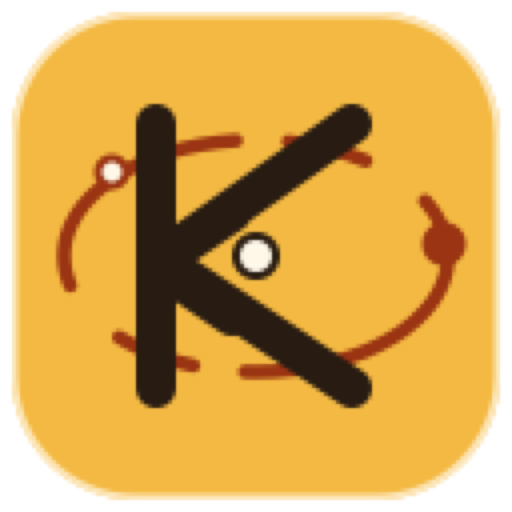
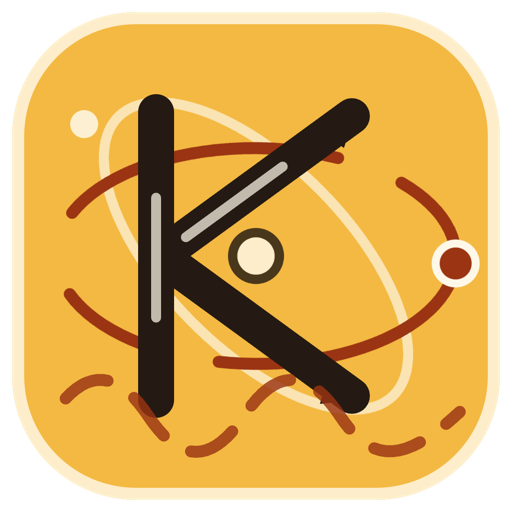
Unify Ask KIT and animate the KINETIQ identity

diff --git a/js/askUI.js b/js/askUI.js
@@ -11,6 +11,9 @@
 import { escapeHTML } from './utils.js';
 import { saveAnswerForReview, isAnswerSaved } from './mistakeBank.js';
 import { learningStorage as localStorage } from './services/learningStorage.js';
+import { aiService } from './services/aiService.js';
+import { contextManager } from './services/contextManager.js';
+import { markdownService } from './services/markdownService.js';
 
 const HISTORY_KEY = 'kinetiq_ask_history_v1';
 
@@ -65,8 +68,17 @@ export function askPage(query = '') {
   return `<section class="page ask-page">
     <div class="ask-hero">
       <div><p class="eyebrow">ASK KINETIQ</p><h1>Ask a question.</h1>
-      <p class="page-lead">Answers come from KINETIQ's own lessons, formulae, worked examples and cases. Every passage carries the lesson it came from, so you can always check it. No account and no API key needed.</p></div>
+      <p class="page-lead">Start with a source-cited answer from KINETIQ's lessons, formulae, worked examples and cases. When an AI provider is available, KIT can also turn those sources into a tailored explanation.</p></div>
       ${statusOrb()}
+    </div>
+
+    <div class="ask-engine" role="group" aria-label="Answer style">
+      <button type="button" class="is-active" data-ask-engine="sources" aria-pressed="true">
+        <b>Source answer</b><span>Fast, cited, no API key</span>
+      </button>
+      <button type="button" data-ask-engine="ai" aria-pressed="false" disabled>
+        <b>AI tutor</b><span data-ai-engine-label>Checking availability…</span>
+      </button>
     </div>
 
     <form class="ask-form" data-ask-form>
@@ -134,6 +146,18 @@ function answerHTML(data, question) {
   </article>`;
 }
 
+function aiAnswerHTML(content, sources = [], provider = '', complete = false, question = '') {
+  const saved = complete && isAnswerSaved(question);
+  return `<article class="ask-answer ask-answer--ai">
+    <header class="ask-answer__head">
+      <div><p class="eyebrow">AI TUTOR${provider ? ` · ${escapeHTML(provider)}` : ''}</p><h2>${complete ? 'KIT’s explanation' : 'KIT is writing…'}</h2></div>
+      ${complete ? `<button type="button" class="outline ask-save" data-ask-save ${saved ? 'disabled' : ''}>${saved ? 'Saved for review ✓' : 'Save for review'}</button>` : ''}
+    </header>
+    <div class="ask-ai-copy">${content ? markdownService.render(content) : '<p class="muted">Connecting the question to KINETIQ’s course sources…</p>'}</div>
+    ${sources.length ? `<footer class="ask-sources"><span>Sources used</span>${sources.map(source => `<a href="${escapeHTML(source.href || '/library')}" data-route>${escapeHTML(source.title || source.type || 'KINETIQ source')}</a>`).join('')}</footer>` : ''}
+  </article>`;
+}
+
 function historyHTML() {
   const rows = readHistory();
   if (!rows.length) return '';
@@ -162,6 +186,7 @@ export function bindAsk() {
   let inFlight = null;
   let lastAnswer = null;
   let lastQuestion = '';
+  let engine = 'sources';
 
   const renderHistory = () => { if (historyBox) historyBox.innerHTML = historyHTML(); };
   const setStatus = (state, heading, detail) => {
@@ -171,13 +196,7 @@ export function bindAsk() {
     status.querySelector('[data-kit-status-label]').textContent = detail;
   };
 
-  async function ask(question) {
-    const trimmed = String(question || '').trim();
-    if (!trimmed) return;
-
-    const url = `/ask?q=${encodeURIComponent(trimmed)}`;
-    if (location.pathname + location.search !== url) history.replaceState({}, '', url);
-
+  async function sourceAnswer(trimmed, fallback = '') {
     result.innerHTML = '<p class="muted ask-loading">Searching KINETIQ…</p>';
     setStatus('thinking', 'KIT is searching', 'Lessons, formulae, cases and worked examples');
     inFlight?.abort?.();
@@ -190,7 +209,7 @@ export function bindAsk() {
       if (!response.ok) throw new Error(data?.error || 'That search could not be completed.');
       lastAnswer = data;
       lastQuestion = trimmed;
-      result.innerHTML = answerHTML(data, trimmed);
+      result.innerHTML = `${fallback ? `<p class="ai-fallback-note" role="status">${escapeHTML(fallback)} The source-cited answer is shown instead.</p>` : ''}${answerHTML(data, trimmed)}`;
       setStatus(data.answered ? 'found' : 'ready', data.answered ? 'Source found' : 'Try another question', data.answered ? 'Answer assembled with its KINETIQ source' : 'Use a topic name or a more specific relationship');
       // Only a question that actually produced an answer is worth remembering.
       if (data.answered) { pushHistory(trimmed); renderHistory(); }
@@ -205,13 +224,81 @@ export function bindAsk() {
     }
   }
 
+  async function aiAnswer(trimmed) {
+    inFlight?.abort?.();
+    let content = '';
+    let sources = [];
+    let provider = '';
+    let streamError = '';
+    setStatus('thinking', 'KIT is explaining', 'Connecting your question to KINETIQ sources');
+    result.innerHTML = aiAnswerHTML('', [], '', false, trimmed);
+
+    const stream = aiService.stream(trimmed, {
+      mode: 'Physics Teacher',
+      context: contextManager.fromRoute(),
+      onDelta: delta => {
+        content += delta;
+        result.innerHTML = aiAnswerHTML(content, sources, provider, false, trimmed);
+      },
+      onSources: rows => {
+        sources = rows;
+        result.innerHTML = aiAnswerHTML(content, sources, provider, false, trimmed);
+      },
+      onMeta: meta => {
+        if (meta.providerLabel) provider = meta.providerLabel;
+        result.innerHTML = aiAnswerHTML(content, sources, provider, false, trimmed);
+      },
+      onError: message => { streamError = message; },
+    });
+    inFlight = stream;
+    await stream.done;
+    inFlight = null;
+
+    if (streamError || !content.trim()) {
+      await sourceAnswer(trimmed, streamError || 'The AI provider returned no text.');
+      return;
+    }
+
+    lastQuestion = trimmed;
+    lastAnswer = {
+      answered: true,
+      headline: 'KIT AI explanation',
+      sections: [{ body: content }],
+      sources,
+    };
+    result.innerHTML = aiAnswerHTML(content, sources, provider, true, trimmed);
+    setStatus('found', 'Explanation ready', `${provider || 'AI tutor'} used KINETIQ course sources`);
+    pushHistory(trimmed);
+    renderHistory();
+  }
+
+  async function ask(question) {
+    const trimmed = String(question || '').trim();
+    if (!trimmed) return;
+    const url = `/ask?q=${encodeURIComponent(trimmed)}`;
+    if (location.pathname + location.search !== url) history.replaceState({}, '', url);
+    if (engine === 'ai') await aiAnswer(trimmed);
+    else await sourceAnswer(trimmed);
+  }
+
   form.addEventListener('submit', event => {
     event.preventDefault();
     ask(input.value);
   });
 
   // Suggestions, related-question chips and history entries all re-ask.
-  document.addEventListener('click', event => {
+  form.closest('.ask-page')?.addEventListener('click', event => {
+    const engineButton = event.target.closest('[data-ask-engine]');
+    if (engineButton && !engineButton.disabled) {
+      engine = engineButton.dataset.askEngine;
+      document.querySelectorAll('[data-ask-engine]').forEach(button => {
+        const active = button === engineButton;
+        button.classList.toggle('is-active', active);
+        button.setAttribute('aria-pressed', String(active));
+      });
+      setStatus('ready', engine === 'ai' ? 'AI tutor selected' : 'Source answer selected', engine === 'ai' ? 'Generated explanation with automatic source fallback' : 'Fast answer from original KINETIQ material');
+      return;
+    }
     const suggest = event.target.closest('[data-ask-suggest]');
     if (suggest) {
       input.value = suggest.dataset.askSuggest;
@@ -238,6 +325,21 @@ export function bindAsk() {
   });
 
   renderHistory();
+
+  // A configured key is never exposed here. The browser receives only the
+  // provider name and whether the server has its environment variable.
+  fetch('/api/ai/providers').then(response => response.ok ? response.json() : null).then(data => {
+    const ready = data?.providers?.filter(provider => provider.configured) || [];
+    const button = document.querySelector('[data-ask-engine="ai"]');
+    const label = document.querySelector('[data-ai-engine-label]');
+    if (!button || !label) return;
+    if (ready.length) {
+      button.disabled = false;
+      label.textContent = `${ready.map(provider => provider.label).join(' or ')} with source fallback`;
+    } else {
+      label.textContent = 'Source mode remains available';
+    }
+  }).catch(() => {});
 
   const initial = new URLSearchParams(location.search).get('q');
   if (initial) ask(initial);

diff --git a/styles.css b/styles.css
@@ -2101,6 +2101,7 @@ input:focus-visible, textarea:focus-visible, select:focus-visible {
 
 @media (max-width: 700px) {
   .ask-form { flex-direction: column; align-items: stretch; }
+  .ask-form .search { flex: 0 0 auto; width: 100%; min-height: 52px; border-radius: var(--r-lg); }
   .ask-form .btn { width: 100%; }
   .ask-suggestions { overflow-x: auto; flex-wrap: nowrap; padding-bottom: var(--s2); }
   .ask-suggestions .chip { flex: none; }
@@ -3853,4 +3854,58 @@ body > footer { font-size: 14px; }
     display: inline-flex;
     align-items: center;
   }
+}
+
+/* One Ask KIT surface, with a source-first answer and an optional generative
+   explanation. The selector is a pair of substantial controls rather than a
+   row of pills, and remains usable when the provider is unavailable. */
+.ask-engine {
+  width: min(100%, 640px);
+  display: grid;
+  grid-template-columns: repeat(2, minmax(0, 1fr));
+  gap: var(--s3);
+  margin: 0 0 var(--s4);
+}
+.ask-engine button {
+  position: relative;
+  min-height: 68px;
+  padding: 12px 15px;
+  overflow: hidden;
+  text-align: left;
+  border: 1px solid var(--line);
+  border-radius: var(--r-md);
+  background: var(--surface);
+  color: var(--ink);
+  cursor: pointer;
+  transition: transform var(--t-fast) var(--ease), border-color var(--t-fast) var(--ease), box-shadow var(--t-fast) var(--ease);
+}
+.ask-engine button::before {
+  content: "";
+  position: absolute;
+  inset: 0 auto 0 0;
+  width: 4px;
+  background: transparent;
+}
+.ask-engine button b,
+.ask-engine button span { display: block; }
+.ask-engine button b { font-size: 15px; line-height: 1.25; }
+.ask-engine button span { margin-top: 4px; color: var(--muted); font-size: 13px; line-height: 1.35; }
+.ask-engine button:hover:not(:disabled) { transform: translateY(-2px); border-color: var(--line-strong); }
+.ask-engine button.is-active {
+  border-color: color-mix(in srgb, var(--blue) 45%, var(--line));
+  box-shadow: 0 8px 24px rgba(154,52,18,.10);
+}
+.ask-engine button.is-active::before { background: var(--blue); }
+.ask-engine button:disabled { cursor: not-allowed; opacity: .58; }
+
+.ask-answer--ai { border-color: color-mix(in srgb, var(--blue) 30%, var(--line)); }
+.ask-answer--ai .eyebrow { margin-bottom: var(--s2); color: var(--blue-strong); }
+.ask-ai-copy { font-size: 16px; line-height: 1.68; }
+.ask-ai-copy > :first-child { margin-top: 0; }
+.ask-ai-copy > :last-child { margin-bottom: 0; }
+.ask-ai-copy code { font-size: .92em; }
+.ai-fallback-note { font-size: 14px; margin: 0 0 var(--s4); }
+
+@media (max-width: 520px) {
+  .ask-engine { grid-template-columns: 1fr; }
 }

diff --git a/server.js b/server.js
@@ -217,7 +217,17 @@ function resolveProvider(requested) {
   return preferred || availableProviders()[0] || null;
 }
 
-async function streamProvider(response, res, parse) {
+function providerFailure(provider, event) {
+  const failure = event?.error || event?.response?.error || {};
+  const code = String(failure.code || failure.type || '').toLowerCase();
+  if (/insufficient_quota|billing|credit/.test(code)) return `${provider.label} is connected, but its API account has no available credit.`;
+  if (/rate_limit/.test(code)) return `${provider.label} has reached its current usage limit. Try again shortly.`;
+  if (/model_not_found|unsupported_model/.test(code)) return `${provider.label} does not allow the configured model for this API project.`;
+  if (/authentication|invalid_api_key/.test(code)) return `${provider.label} rejected the configured API key.`;
+  return `${provider.label} could not complete this answer. KIT will use its source-cited course answer instead.`;
+}
+
+async function streamProvider(response, res, parse, provider) {
   const reader = response.body?.getReader();
   if (!reader) throw new Error('The AI response did not include a stream.');
   const decoder = new TextDecoder();
@@ -235,7 +245,10 @@ async function streamProvider(response, res, parse) {
         const delta = parse(event) || '';
         if (delta) sse(res, 'delta', { delta });
         if (event.type === 'response.completed') sse(res, 'meta', { usage: event.response?.usage || null });
-        if (event.type === 'error' || event.error) sse(res, 'error', { error: 'KIT could not complete that request. Please retry.' });
+        if (event.type === 'error' || event.type === 'response.failed' || event.error || event.response?.error) {
+          sse(res, 'error', { error: providerFailure(provider, event) });
+          return;
+        }
       } catch { /* Ignore incomplete upstream SSE packets. */ }
     }
   }
@@ -281,7 +294,7 @@ async function tutor(req, res) {
     res.writeHead(200, secureHeaders({ 'Content-Type': 'text/event-stream; charset=utf-8', 'Cache-Control': 'no-cache, no-transform', Connection: 'keep-alive', 'X-Accel-Buffering': 'no' }));
     sse(res, 'sources', { sources: sources.map(({ type, title, href, metadata }) => ({ type, title, href, metadata })) });
     sse(res, 'meta', { provider: providerId, providerLabel: provider.label, model });
-    await streamProvider(response, res, provider.parse);
+    await streamProvider(response, res, provider.parse, provider);
     sse(res, 'done', {}); res.end();
   } catch (error) {
     if (error.name === 'AbortError') return;

diff --git a/index.html b/index.html
@@ -4,7 +4,7 @@
   <meta charset="utf-8">
   <meta name="viewport" content="width=device-width, initial-scale=1">
   <link rel="manifest" href="/manifest.json">
-  <link rel="icon" type="image/svg+xml" href="/icons/kinetiq.svg">
+  <link rel="icon" type="image/svg+xml" href="/icons/kinetiq.svg?v=2">
   <link rel="apple-touch-icon" href="/icons/momentum-180.png">
   <meta name="apple-mobile-web-app-capable" content="yes">
   <meta name="apple-mobile-web-app-status-bar-style" content="default">
@@ -23,7 +23,7 @@
   <div class="noise" aria-hidden="true"></div>
   <header class="site-header" id="siteHeader">
     <div class="nav-shell glass" data-glass>
-      <a class="brand" href="/" data-route><span class="brand-emblem" aria-hidden="true"><img class="brand-mark" src="/icons/kinetiq.svg" alt="" width="40" height="40"></span><span>KINETIQ<small>IBDP PHYSICS</small></span></a>
+      <a class="brand" href="/" data-route><span class="brand-emblem" aria-hidden="true"><img class="brand-mark" src="/icons/kinetiq.svg?v=2" alt="" width="40" height="40"></span><span>KINETIQ<small>IBDP PHYSICS</small></span></a>
 
       <nav class="nav-primary" aria-label="Primary navigation">
         <a href="/library" data-route>Learn</a>
@@ -103,7 +103,7 @@
   <main id="app" tabindex="-1"></main>
   <div id="modalRoot"></div>
   <footer>
-    <a class="brand" href="/" data-route><span class="brand-emblem" aria-hidden="true"><img class="brand-mark" src="/icons/kinetiq.svg" alt="" width="40" height="40"></span> KINETIQ</a>
+    <a class="brand" href="/" data-route><span class="brand-emblem" aria-hidden="true"><img class="brand-mark" src="/icons/kinetiq.svg?v=2" alt="" width="40" height="40"></span> KINETIQ</a>
     <nav aria-label="Footer navigation" class="footer-nav">
       <a href="/library" data-route>Course library</a>
       <a href="/patterns" data-route>Question patterns</a>

diff --git a/tests/e2e/flows.spec.js b/tests/e2e/flows.spec.js
@@ -101,6 +101,28 @@ test.describe('desktop', () => {
     await expect(page.locator('.ask-answer')).toBeVisible();
   });
 
+  test('Ask KIT offers one AI mode and falls back to cited course material', async ({ page }) => {
+    await page.route('**/api/ai/providers', route => route.fulfill({
+      status: 200,
+      contentType: 'application/json',
+      body: JSON.stringify({ active: 'openai', providers: [{ id: 'openai', label: 'OpenAI', configured: true }] }),
+    }));
+    await page.route('**/api/chat', route => route.fulfill({
+      status: 200,
+      headers: { 'content-type': 'text/event-stream; charset=utf-8' },
+      body: 'event: error\ndata: {"error":"The AI provider is temporarily unavailable."}\n\nevent: done\ndata: {}\n\n',
+    }));
+    await page.goto('/ask');
+    const ai = page.locator('[data-ask-engine="ai"]');
+    await expect(ai).toBeEnabled();
+    await ai.click();
+    await expect(ai).toHaveAttribute('aria-pressed', 'true');
+    await page.locator('#askInput').fill('What is escape speed?');
+    await page.locator('[data-ask-form]').getByRole('button', { name: 'Answer' }).click();
+    await expect(page.locator('.ai-fallback-note')).toContainText('source-cited answer');
+    await expect(page.locator('.ask-answer')).toBeVisible();
+  });
+
   test('an unknown route shows a not-found page rather than an empty one', async ({ page }) => {
     await page.goto('/this-route-does-not-exist');
     await expect(page.locator('#app')).not.toBeEmpty();

diff --git a/README.md b/README.md
@@ -156,9 +156,10 @@ user's identity.
 
 ## Enable KIT AI
 
-KIT works with any one of four providers. Configure at least one; KINETIQ uses the first
-configured provider, and if several are configured the learner can switch between them
-from a selector in the AI workspace.
+KIT works with any one of four providers. Configure at least one; KINETIQ uses
+`AI_PROVIDER` when set and otherwise uses the first configured provider. The public Ask KIT
+page keeps the source-cited answer and generative tutor together, with automatic fallback
+to KINETIQ course material if the provider fails.
 
 | Provider | Key | Default model | Override |
 | --- | --- | --- | --- |
@@ -181,8 +182,9 @@ Keys are read from the server environment only. They never reach the browser, an
 git-ignored. On a host, set the variables in that service's environment settings instead of
 committing a file. `npm test` fails if a key pattern appears in any tracked file.
 
-`/ask` is the public KIT experience and works without an AI provider key. The legacy `/ai` URL opens the same source-cited assistant. Provider-backed chat code remains optional and server-side for future use.
-Everything else works with no key at all.
+`/ask` is the public KIT experience and works without an AI provider key. When a provider
+is configured, learners can choose **AI tutor** on that same page. The legacy `/ai` URL
+opens the same unified experience. Everything else works with no key at all.
 
 ## Study from your own book
 
